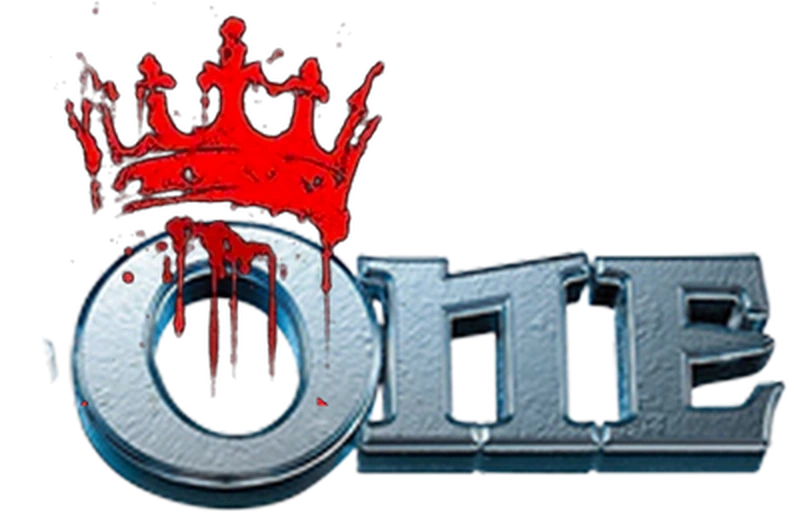
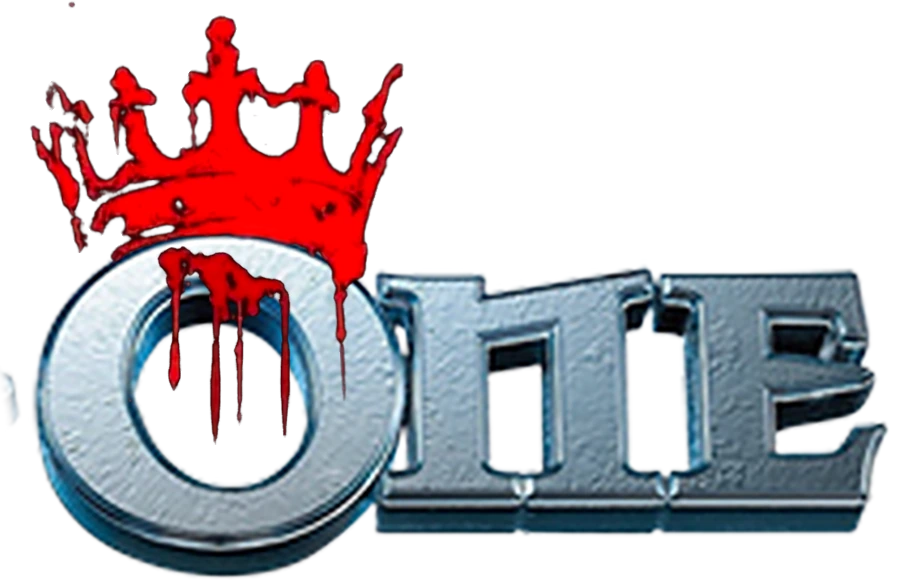
Header: ONE and crown from the original separate artwork; blood drips after the crown lands
- Uses the supplied ONE and crown files (same 900x592 artboard), so the
  O is whole; retires the colour-split/inpainted versions
- Crown is split at the drip line: the crown drops onto ONE, then the
  blood runs down over ~1.6s (first visit per session only)
- Compact bar brand uses the new combined ONE + crown

Claude-Session: https://claude.ai/code/session_01JkNFZyE6rz4374C6cnjz3o

diff --git a/assets/header.js b/assets/header.js
@@ -43,7 +43,10 @@
     '#site-header .sh-to{left:47.9%;top:44%;font-family:Anton,Impact,sans-serif;font-size:2.7cqw;line-height:1;color:var(--sh-red);letter-spacing:.04em}',
     '#site-header .sh-one{left:53.8%;top:6%;width:12.9%}',
     '#site-header .sh-one img{width:100%;height:auto}',
-    '#site-header .sh-one .sh-crown{position:absolute;left:0;top:0}',
+    '#site-header .sh-one .sh-crown,#site-header .sh-one .sh-drip{position:absolute;left:0;top:0}',
+    /* crown split at the drip line: the crown lands, then the blood runs down */
+    '#site-header .sh-one .sh-crown{clip-path:inset(0 0 48.97% 0)}',
+    '#site-header .sh-one .sh-drip{clip-path:inset(51.03% 0 0 0)}',
     '#site-header .sh-man{left:67.6%;top:2%;width:6.3%}',
     '#site-header .sh-mirror{position:absolute;top:0;bottom:0;width:23%;display:flex;flex-direction:column;justify-content:center;align-items:flex-start;gap:.7cqw}',
     '#site-header .sh-mirror.l{left:1.2%}#site-header .sh-mirror.r{left:75.8%}',
@@ -94,6 +97,7 @@
     '  #site-header.sh-intro .sh-to{animation:sh-fade .4s .75s both}',
     '  #site-header.sh-intro .sh-one .sh-base{animation:sh-rise .55s .9s cubic-bezier(.2,.8,.2,1) both}',
     '  #site-header.sh-intro .sh-crown{animation:sh-crown .9s 1.35s cubic-bezier(.3,1.5,.5,1) both}',
+    '  #site-header.sh-intro .sh-drip{animation:sh-drip 1.6s 2.2s cubic-bezier(.55,0,.75,.4) both}',
     '  #site-header.sh-intro .sh-man{animation:sh-in-r .7s 1.75s cubic-bezier(.2,.8,.2,1) both}',
     '  #site-header.sh-intro .sh-mirror{animation:sh-fade .7s 2.2s both}',
     '}',
@@ -101,6 +105,7 @@
     '@keyframes sh-in-r{from{opacity:0;transform:translateX(60%)}to{opacity:1;transform:none}}',
     '@keyframes sh-fade{from{opacity:0;filter:blur(6px)}to{opacity:1;filter:none}}',
     '@keyframes sh-rise{from{opacity:0;transform:translateY(30%)}to{opacity:1;transform:none}}',
+    '@keyframes sh-drip{from{clip-path:inset(51.03% 0 48.97% 0)}to{clip-path:inset(51.03% 0 0 0)}}',
     '@keyframes sh-crown{0%{opacity:0;transform:translateY(-140%) rotate(-12deg)}55%{opacity:1}100%{opacity:1;transform:none}}'
   ].join('\n');
   var st = document.createElement('style'); st.textContent = css; document.head.appendChild(st);
@@ -135,7 +140,7 @@
         img(A('boy.webp'), 452, 900, 'sh-el sh-boy'),
         img(A('zero.webp'), 972, 349, 'sh-el sh-zero'),
         el('div', { class: 'sh-el sh-to', text: 'TO', 'aria-hidden': 'true' }),
-        el('div', { class: 'sh-el sh-one' }, [img(A('one-base.webp'), 794, 522, 'sh-base'), img(A('one-crown.webp'), 794, 522, 'sh-crown')]),
+        el('div', { class: 'sh-el sh-one' }, [img(A('one.webp'), 900, 584, 'sh-base'), img(A('crown.webp'), 900, 584, 'sh-crown'), img(A('crown.webp'), 900, 584, 'sh-drip')]),
         img(A('king-man.webp'), 499, 900, 'sh-el sh-man'),
         mirror('r', 'fan')
       ])
@@ -153,7 +158,7 @@
   var burger = el('button', { class: 'sh-burger', type: 'button', 'aria-label': 'Open menu', 'aria-expanded': 'false', 'aria-controls': 'sh-drawer' });
   burger.innerHTML = '<svg width="22" height="22" viewBox="0 0 24 24" fill="none" stroke="currentColor" stroke-width="2.2" stroke-linecap="round" aria-hidden="true"><path d="M4 7h16M4 12h16M4 17h16"/></svg>';
   var brand = el('a', { class: 'sh-brand', href: root, 'aria-label': 'Agar Main King Hota — home' }, [
-    img(A('one-full.webp'), 794, 522, '', ''),
+    img(A('one-full.webp'), 900, 584, '', ''),
     el('span', {}, [document.createTextNode('AGAR MAIN '), el('b', { text: 'KING' }), document.createTextNode(' HOTA')])
   ]);
   var bar = el('div', { class: 'sh-bar' }, [el('div', { class: 'sh-bar-in' }, [brand, nav, burger])]);
